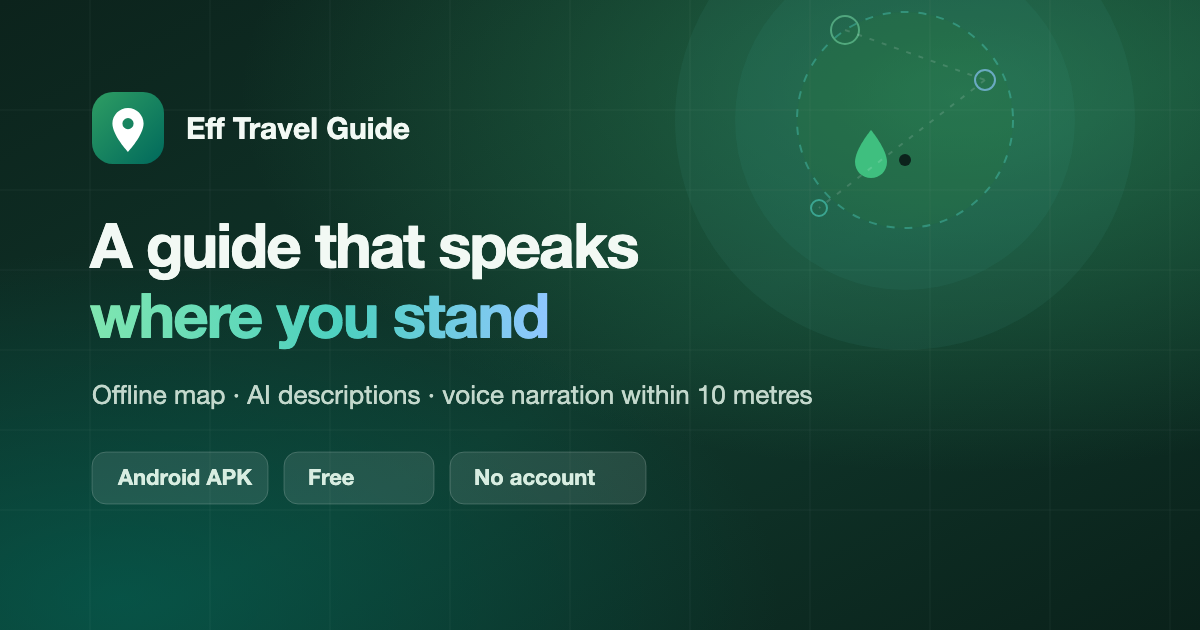
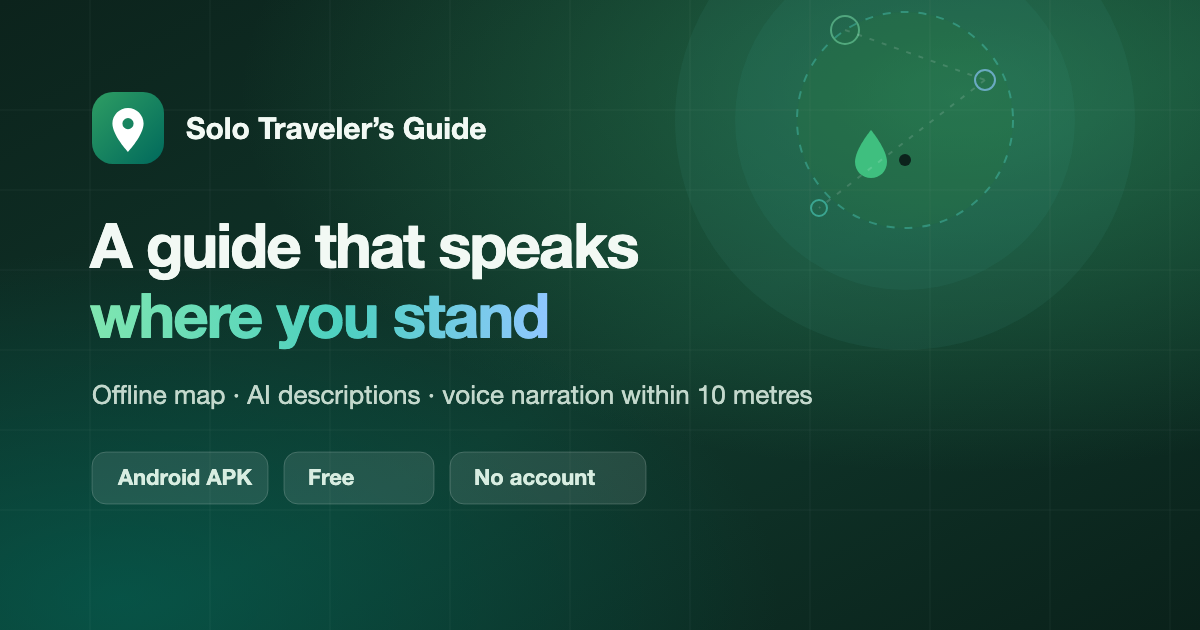
refactor: rename app to Solo Traveler’s Guide

Changed region(s): [[0.1542, 0.181, 0.4008, 0.2413]]

diff --git a/site/index.html b/site/index.html
@@ -3,13 +3,13 @@
 <head>
   <meta charset="utf-8">
   <meta name="viewport" content="width=device-width, initial-scale=1">
-  <title>Eff Travel Guide — an audio guide that speaks where you stand</title>
+  <title>Solo Traveler’s Guide — an audio guide that speaks where you stand</title>
   <meta name="description" content="Android travel companion: offline map, AI-written descriptions and automatic voice narration when you come within 10 metres of a point. Your data stays on your device.">
   <meta name="theme-color" content="#0e2a22">
   <link rel="icon" href="favicon.svg" type="image/svg+xml">
   <link rel="stylesheet" href="styles.css">
   <meta property="og:type" content="website">
-  <meta property="og:title" content="Eff Travel Guide — an audio guide that speaks where you stand">
+  <meta property="og:title" content="Solo Traveler’s Guide — an audio guide that speaks where you stand">
   <meta property="og:description" content="Offline map, AI descriptions and automatic narration within 10 metres. Free Android APK.">
   <meta property="og:image" content="https://evgenykon.github.io/travel-guide/og-cover.png">
   <meta property="og:url" content="https://evgenykon.github.io/travel-guide/">
@@ -20,7 +20,7 @@
 
 <header class="site-header">
   <div class="wrap header-inner">
-    <a class="brand" href="#top" aria-label="Eff Travel Guide">
+    <a class="brand" href="#top" aria-label="Solo Traveler’s Guide">
       <svg class="brand-mark" viewBox="0 0 40 40" aria-hidden="true">
         <rect width="40" height="40" rx="12" fill="url(#brandGrad)"/>
         <path d="M20 9c-4.6 0-8.3 3.7-8.3 8.3 0 6.2 8.3 15.4 8.3 15.4s8.3-9.2 8.3-15.4C28.3 12.7 24.6 9 20 9Zm0 11.2a2.9 2.9 0 1 1 0-5.8 2.9 2.9 0 0 1 0 5.8Z" fill="#fff"/>
@@ -30,7 +30,7 @@
           </linearGradient>
         </defs>
       </svg>
-      <span>Eff Travel Guide</span>
+      <span>Solo Traveler’s Guide</span>
     </a>
     <nav class="nav" aria-label="Main">
       <a href="#features" data-ru="Возможности">Features</a>
@@ -371,7 +371,7 @@
         <path d="M20 9c-4.6 0-8.3 3.7-8.3 8.3 0 6.2 8.3 15.4 8.3 15.4s8.3-9.2 8.3-15.4C28.3 12.7 24.6 9 20 9Zm0 11.2a2.9 2.9 0 1 1 0-5.8 2.9 2.9 0 0 1 0 5.8Z" fill="#fff"/>
       </svg>
       <div>
-        <p class="footer-title">Eff Travel Guide</p>
+        <p class="footer-title">Solo Traveler’s Guide</p>
         <p class="footer-note" data-ru="Гид, комментирующий места, которые вы проходите.">A guide that speaks where you stand.</p>
       </div>
     </div>
@@ -383,7 +383,7 @@
     </nav>
   </div>
   <div class="wrap footer-bottom">
-    <p>© <span id="year">2026</span> Eff Travel Guide. <span data-ru="Не связано с OpenStreetMap, OpenFreeMap, Yandex или OpenRouter.">Not affiliated with OpenStreetMap, OpenFreeMap, Yandex or OpenRouter.</span></p>
+    <p>© <span id="year">2026</span> Solo Traveler’s Guide. <span data-ru="Не связано с OpenStreetMap, OpenFreeMap, Yandex или OpenRouter.">Not affiliated with OpenStreetMap, OpenFreeMap, Yandex or OpenRouter.</span></p>
   </div>
 </footer>
 

diff --git a/app/src/main/java/com/evgenykon/travelguide/ui/settings/SettingsScreen.kt b/app/src/main/java/com/evgenykon/travelguide/ui/settings/SettingsScreen.kt
@@ -175,7 +175,7 @@ class SettingsViewModel(private val container: AppContainer) : ViewModel() {
         val current = settings.value
         viewModelScope.launch {
             container.ttsRepository
-                .speak("Привет! Это тест озвучки Eff Travel Guide.", current.voice, current.speed.toDouble())
+                .speak("Привет! Это тест озвучки Solo Traveler’s Guide.", current.voice, current.speed.toDouble())
                 .onFailure { messageState.value = it.message ?: "Не удалось озвучить" }
         }
     }
@@ -541,7 +541,7 @@ fun SettingsScreen(container: AppContainer, navController: NavController) {
             }
 
             SettingsSection("О приложении") {
-                Text("Eff Travel Guide ${BuildConfig.VERSION_NAME}")
+                Text("Solo Traveler’s Guide ${BuildConfig.VERSION_NAME}")
                 Text(
                     "MapLibre · Yandex SpeechKit · OpenRouter",
                     style = MaterialTheme.typography.bodySmall,

diff --git a/site/app.js b/site/app.js
@@ -6,11 +6,11 @@
 
   var META = {
     en: {
-      title: "Eff Travel Guide — an audio guide that speaks where you stand",
+      title: "Solo Traveler’s Guide — an audio guide that speaks where you stand",
       description: "Android travel companion: offline map, AI-written descriptions and automatic voice narration when you come within 10 metres of a point. Your data stays on your device."
     },
     ru: {
-      title: "Eff Travel Guide — гид, комментирующий места, которые вы проходите",
+      title: "Solo Traveler’s Guide — гид, комментирующий места, которые вы проходите",
       description: "Android-путеводитель: офлайн-карта, описания от ИИ и автоматическая озвучка при входе в 10-метровый радиус точки. Данные остаются на устройстве."
     }
   };

diff --git a/app/src/main/java/com/evgenykon/travelguide/auth/OpenRouterOAuth.kt b/app/src/main/java/com/evgenykon/travelguide/auth/OpenRouterOAuth.kt
@@ -24,7 +24,7 @@ class OpenRouterOAuth(private val api: OpenRouterApi) {
 
     suspend fun authorize(
         context: Context,
-        appLabel: String = "Eff Travel Guide"
+        appLabel: String = "Solo Traveler’s Guide"
     ): AuthResult = withContext(Dispatchers.IO) {
         val verifier = Pkce.generateVerifier()
         val challenge = Pkce.challenge(verifier)

diff --git a/app/src/main/java/com/evgenykon/travelguide/location/TrackingReadiness.kt b/app/src/main/java/com/evgenykon/travelguide/location/TrackingReadiness.kt
@@ -228,7 +228,7 @@ object TrackingReadiness {
                 )
             ).apply {
                 putExtra("package_name", context.packageName)
-                putExtra("package_label", "Eff Travel Guide")
+                putExtra("package_label", "Solo Traveler’s Guide")
             },
             Intent().setComponent(
                 ComponentName(

diff --git a/README.md b/README.md
@@ -1,4 +1,4 @@
-# Eff Travel Guide
+# Solo Traveler’s Guide
 
 Android-приложение: карта MapLibre, точки с описаниями, автоматическая озвучка
 (Yandex SpeechKit) при входе в 10-метровую зону, генерация описаний через
